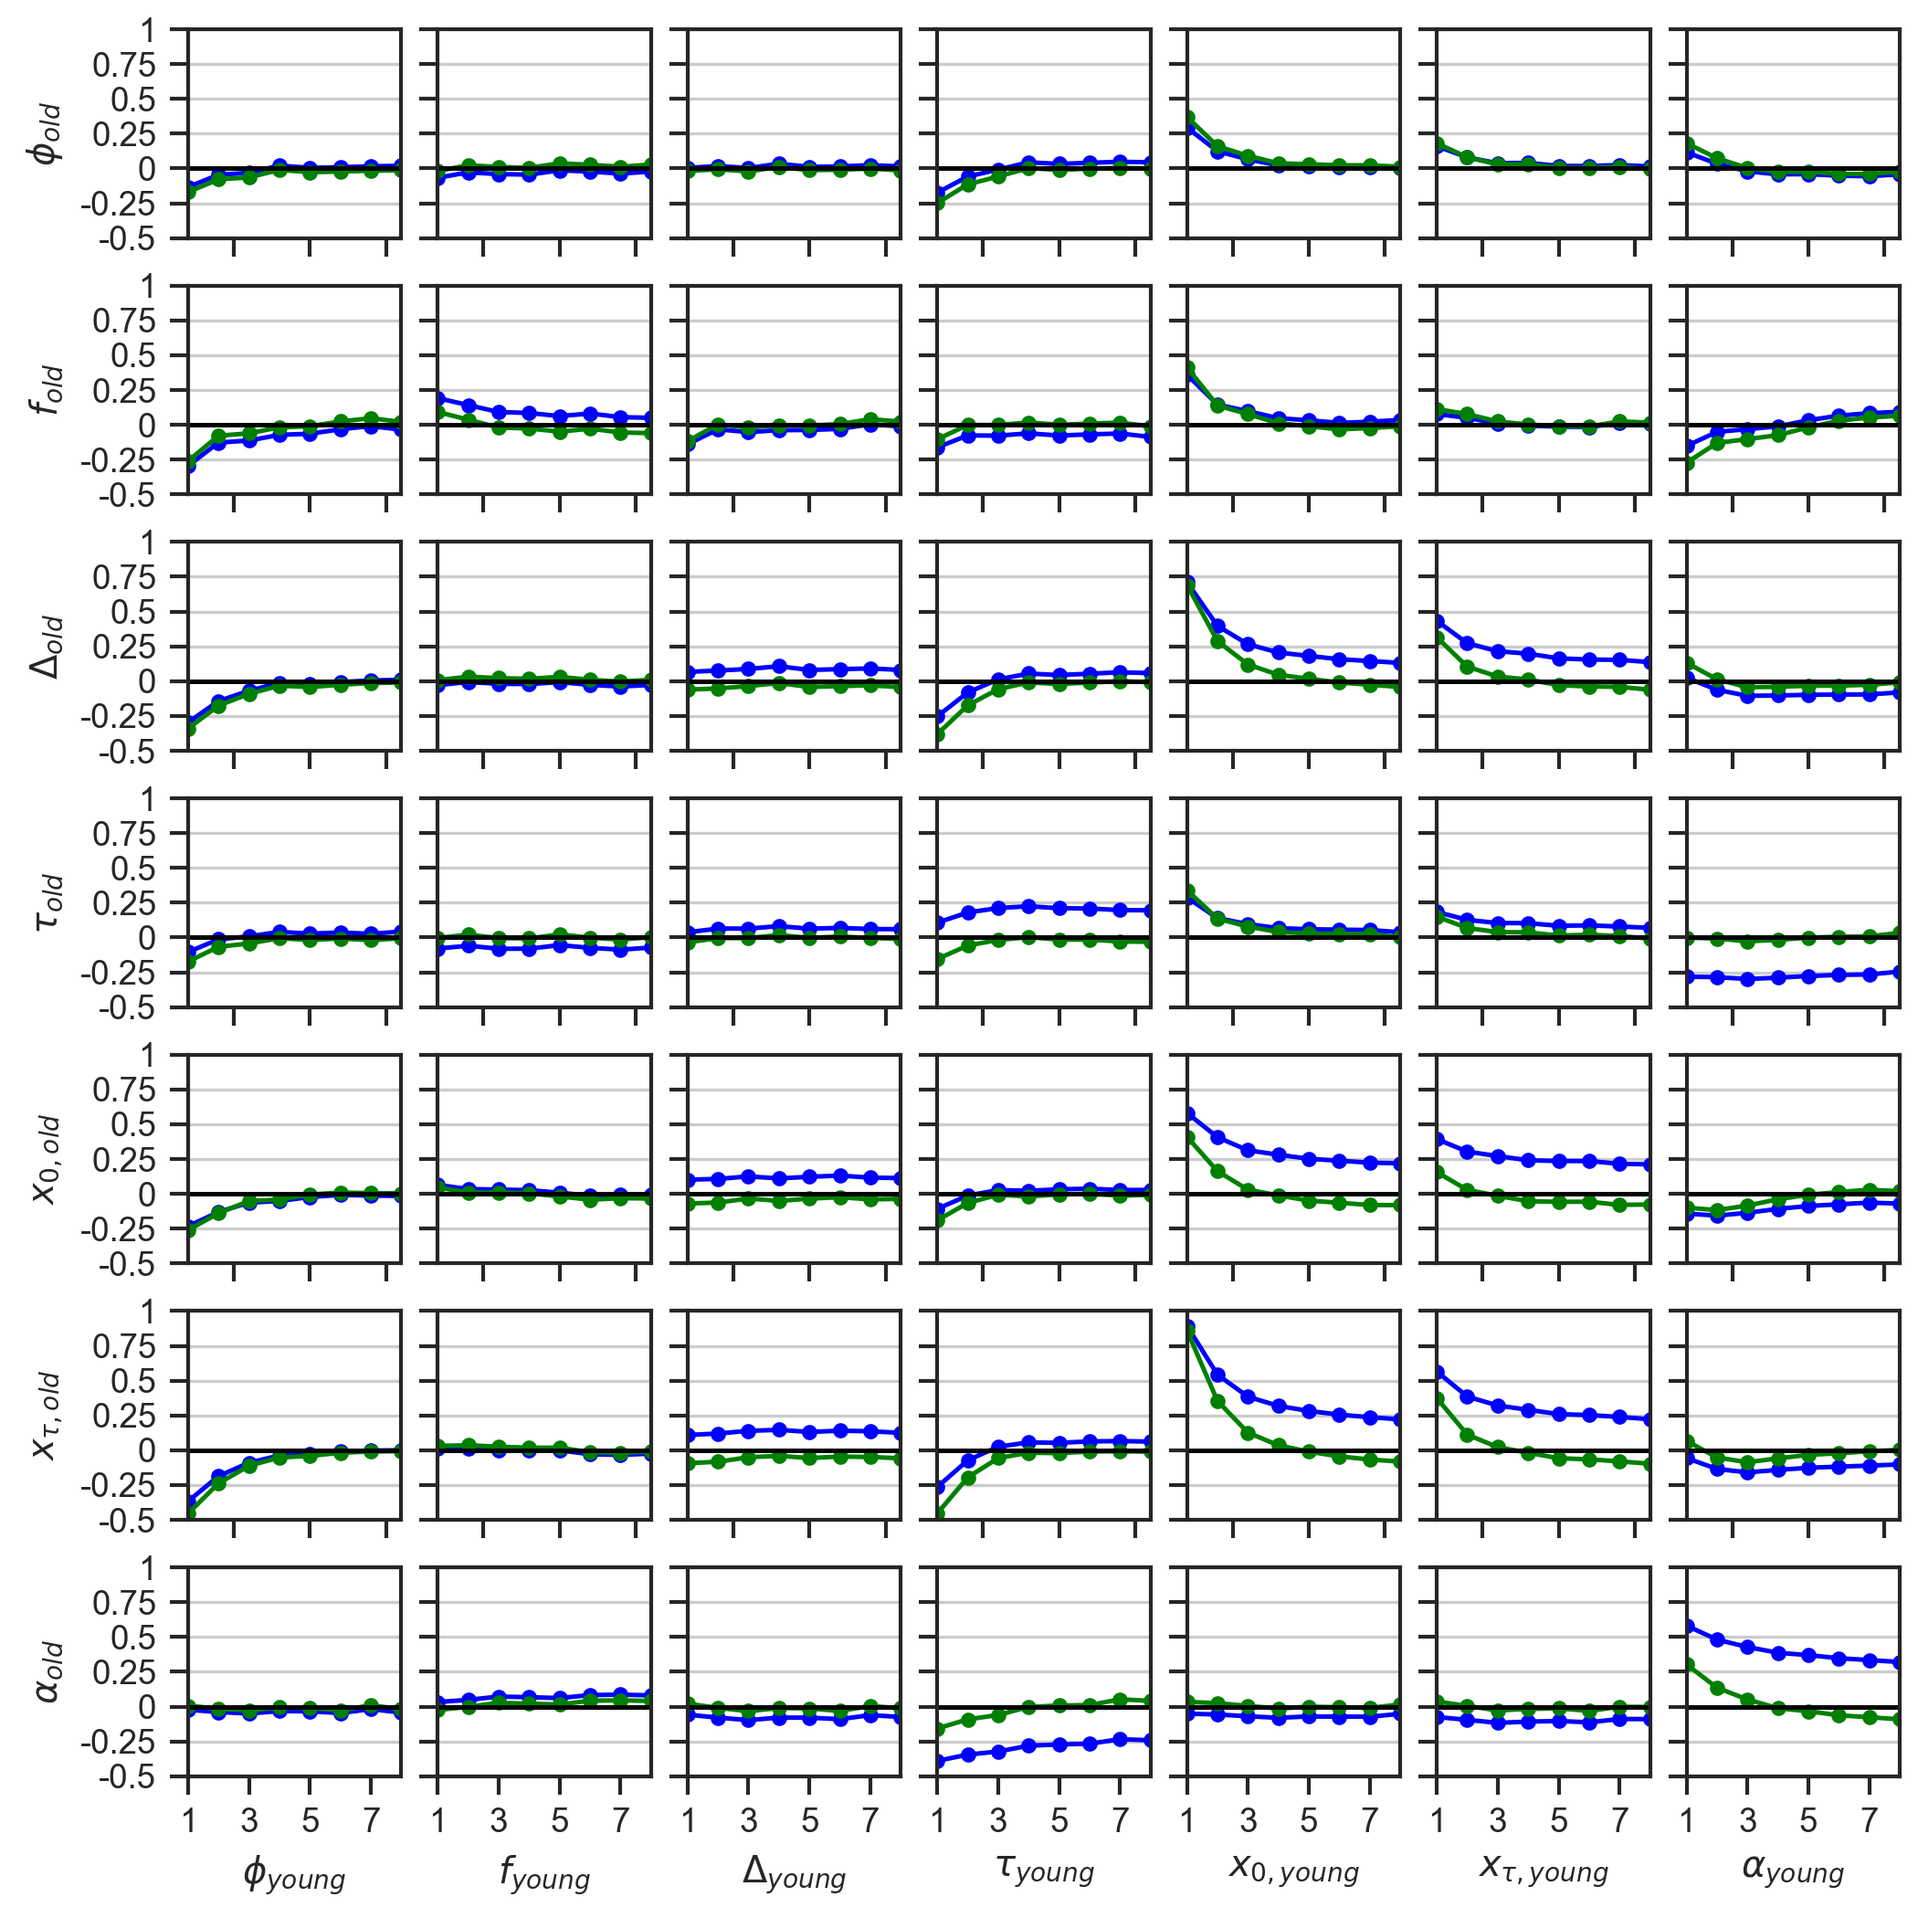
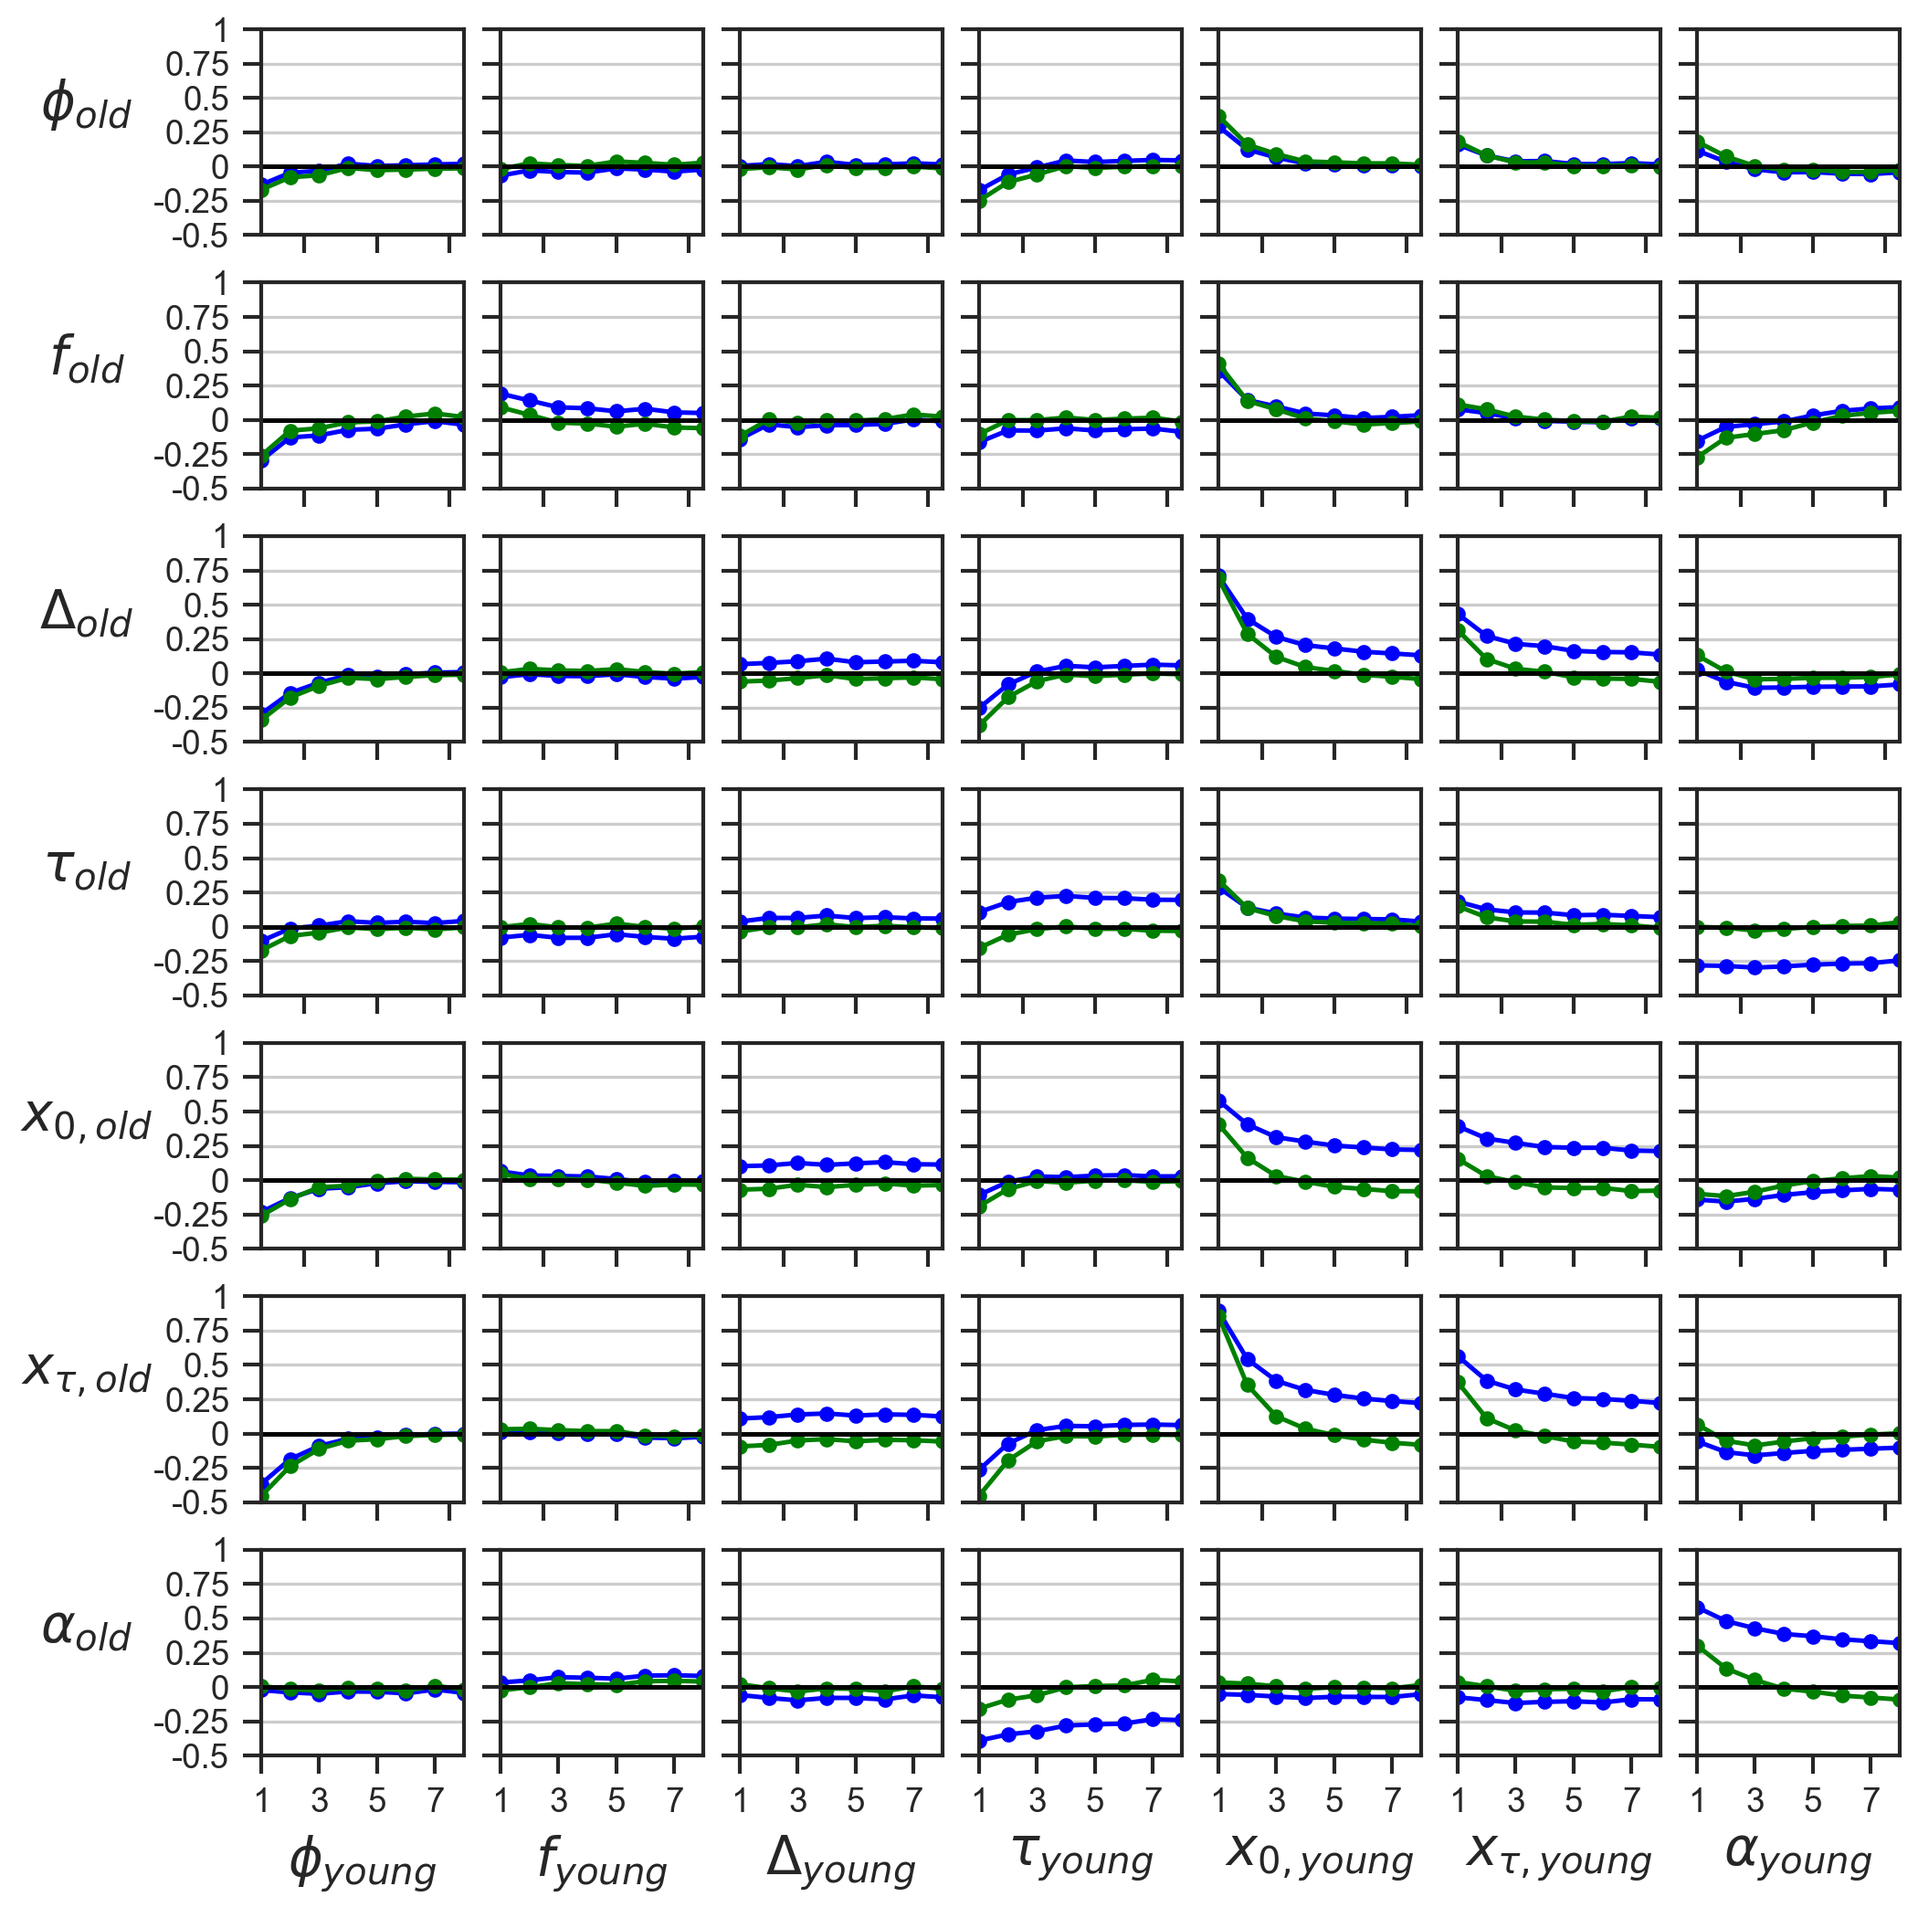
First Git

Changed region(s): [[0.0, 0.0, 0.9905, 0.9905]]

diff --git a/Plotting/pair_gen_specific_figures.py b/Plotting/pair_gen_specific_figures.py
@@ -21,10 +21,24 @@ def plot_panel(var_a, var_b, count1, ax):
     # The constant
     df = pair_correlation[(pair_correlation['kind'] == 'time_averages') & (pair_correlation['variable_a'] == var_a) & (pair_correlation['variable_b'] == var_b)].copy()
 
-    sns.barplot(data=pair_correlation[(pair_correlation['kind'] == 'trace_centered') & (pair_correlation['variable_a'] == var_a) & (pair_correlation['variable_b'] == var_b)], x='generation',
-                y='correlation', hue='dataset', palette=cmap, edgecolor='black', ax=ax)
-    
-    ax.get_legend().remove()
+    # if count1 == 0:
+    #     sns.catplot(data=pair_correlation[(pair_correlation['kind'] == 'trace_centered') & (pair_correlation['variable_a'] == var_a) & (pair_correlation['variable_b'] == var_b)], x='generation',
+    #                 y='correlation', hue='dataset', palette=cmap, edgecolor='black', ax=ax, legend=True, kind='bar')
+    # else:
+    #     sns.catplot(data=pair_correlation[(pair_correlation['kind'] == 'trace_centered') & (pair_correlation['variable_a'] == var_a) & (pair_correlation['variable_b'] == var_b)], x='generation',
+    #                 y='correlation', hue='dataset', palette=cmap, edgecolor='black', ax=ax, legend=False, kind='bar')
+
+    if count1 == 0:
+        sns.barplot(data=pair_correlation[(pair_correlation['kind'] == 'trace_centered') & (pair_correlation['variable_a'] == var_a) & (pair_correlation['variable_b'] == var_b)], x='generation',
+                    y='correlation', hue='dataset', palette=cmap, edgecolor='black', ax=ax)
+    else:
+        sns.barplot(data=pair_correlation[(pair_correlation['kind'] == 'trace_centered') & (pair_correlation['variable_a'] == var_a) & (pair_correlation['variable_b'] == var_b)], x='generation',
+                    y='correlation', hue='dataset', palette=cmap, edgecolor='black', ax=ax)
+        ax.get_legend().remove()
+
+    # sns.barplot(data=pair_correlation[(pair_correlation['kind'] == 'trace_centered') & (pair_correlation['variable_a'] == var_a) & (pair_correlation['variable_b'] == var_b)], x='generation',
+    #             y='correlation', hue='dataset', palette=cmap, edgecolor='black', ax=ax, legend_out=True)
+    # ax.get_legend().remove()
     
     # Plot the constant impact of the time-average in the
     for count, hue in enumerate(datasets):
@@ -53,8 +67,13 @@ def plot_main_figure():
         ax.set_title(uppercase_letters[count1], x=-0.07, fontsize='xx-large')
         
         # the legend
-        if count1 in [0, 1]:
+        if count1 == 0:
             ax.legend(title='')
+        elif count1 == 1:
+            h, l = ax.get_legend_handles_labels()
+            ax.legend(h[:3], l[:3], title='')
+        # if count1 in [0, 1]:
+        #     ax.legend(title='')
     
     plt.savefig('{}/gen_specific_main_figure.png'.format(args.figs_location), dpi=300)
     # plt.show()

diff --git a/Plotting/intergenerational_figures.py b/Plotting/intergenerational_figures.py
@@ -61,7 +61,7 @@ def put_all_graphs_into_a_big_grid(variables=phenotypic_variables):
             
             # To share the x,y-axes
             if row == axes.shape[0] - 1:
-                ax.set_xlabel(col_var)
+                ax.set_xlabel(col_var, size='x-large', loc='center')
                 ax.set_xticks(xticks)
                 ax.set_xticklabels(xticks)
             else:
@@ -70,7 +70,7 @@ def put_all_graphs_into_a_big_grid(variables=phenotypic_variables):
             if col == 0:
                 ax.set_yticks(yticks)
                 ax.set_yticklabels(yticks)
-                ax.set_ylabel(row_var)
+                ax.set_ylabel(row_var+'        ', size='x-large', rotation=0, loc='center')
             else:
                 ax.set_ylabel('')
                 ax.set_yticks(yticks)
